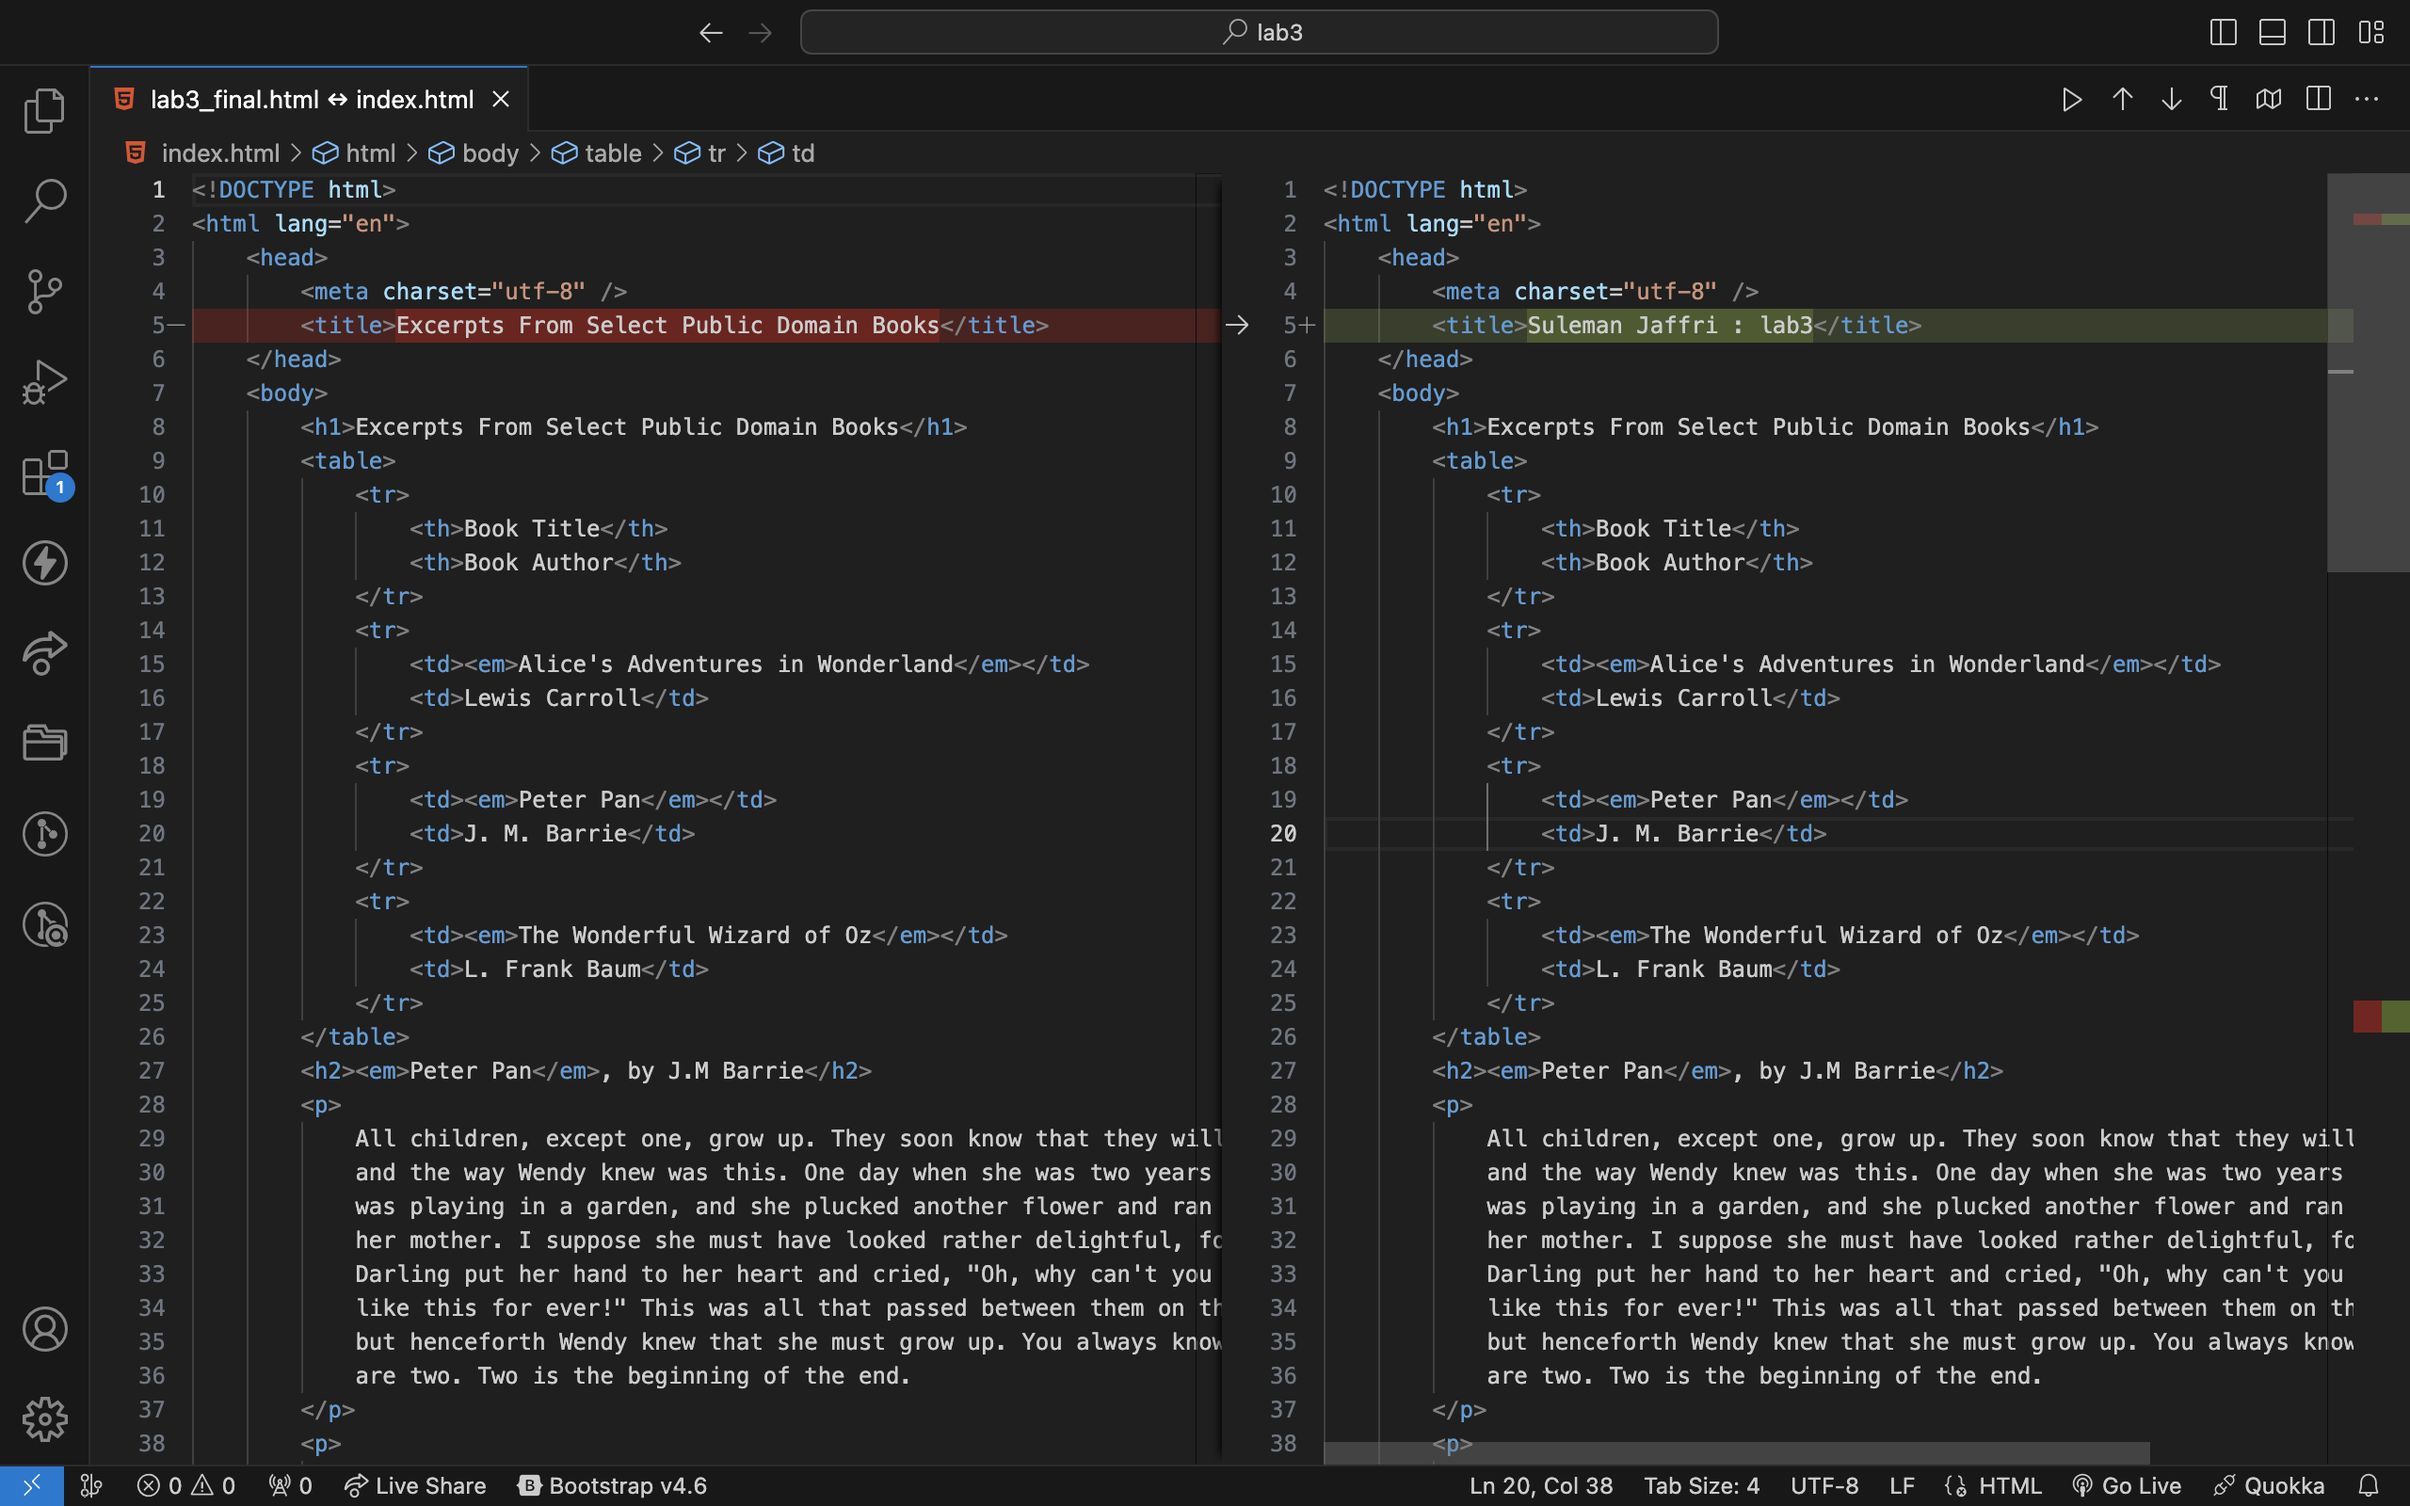
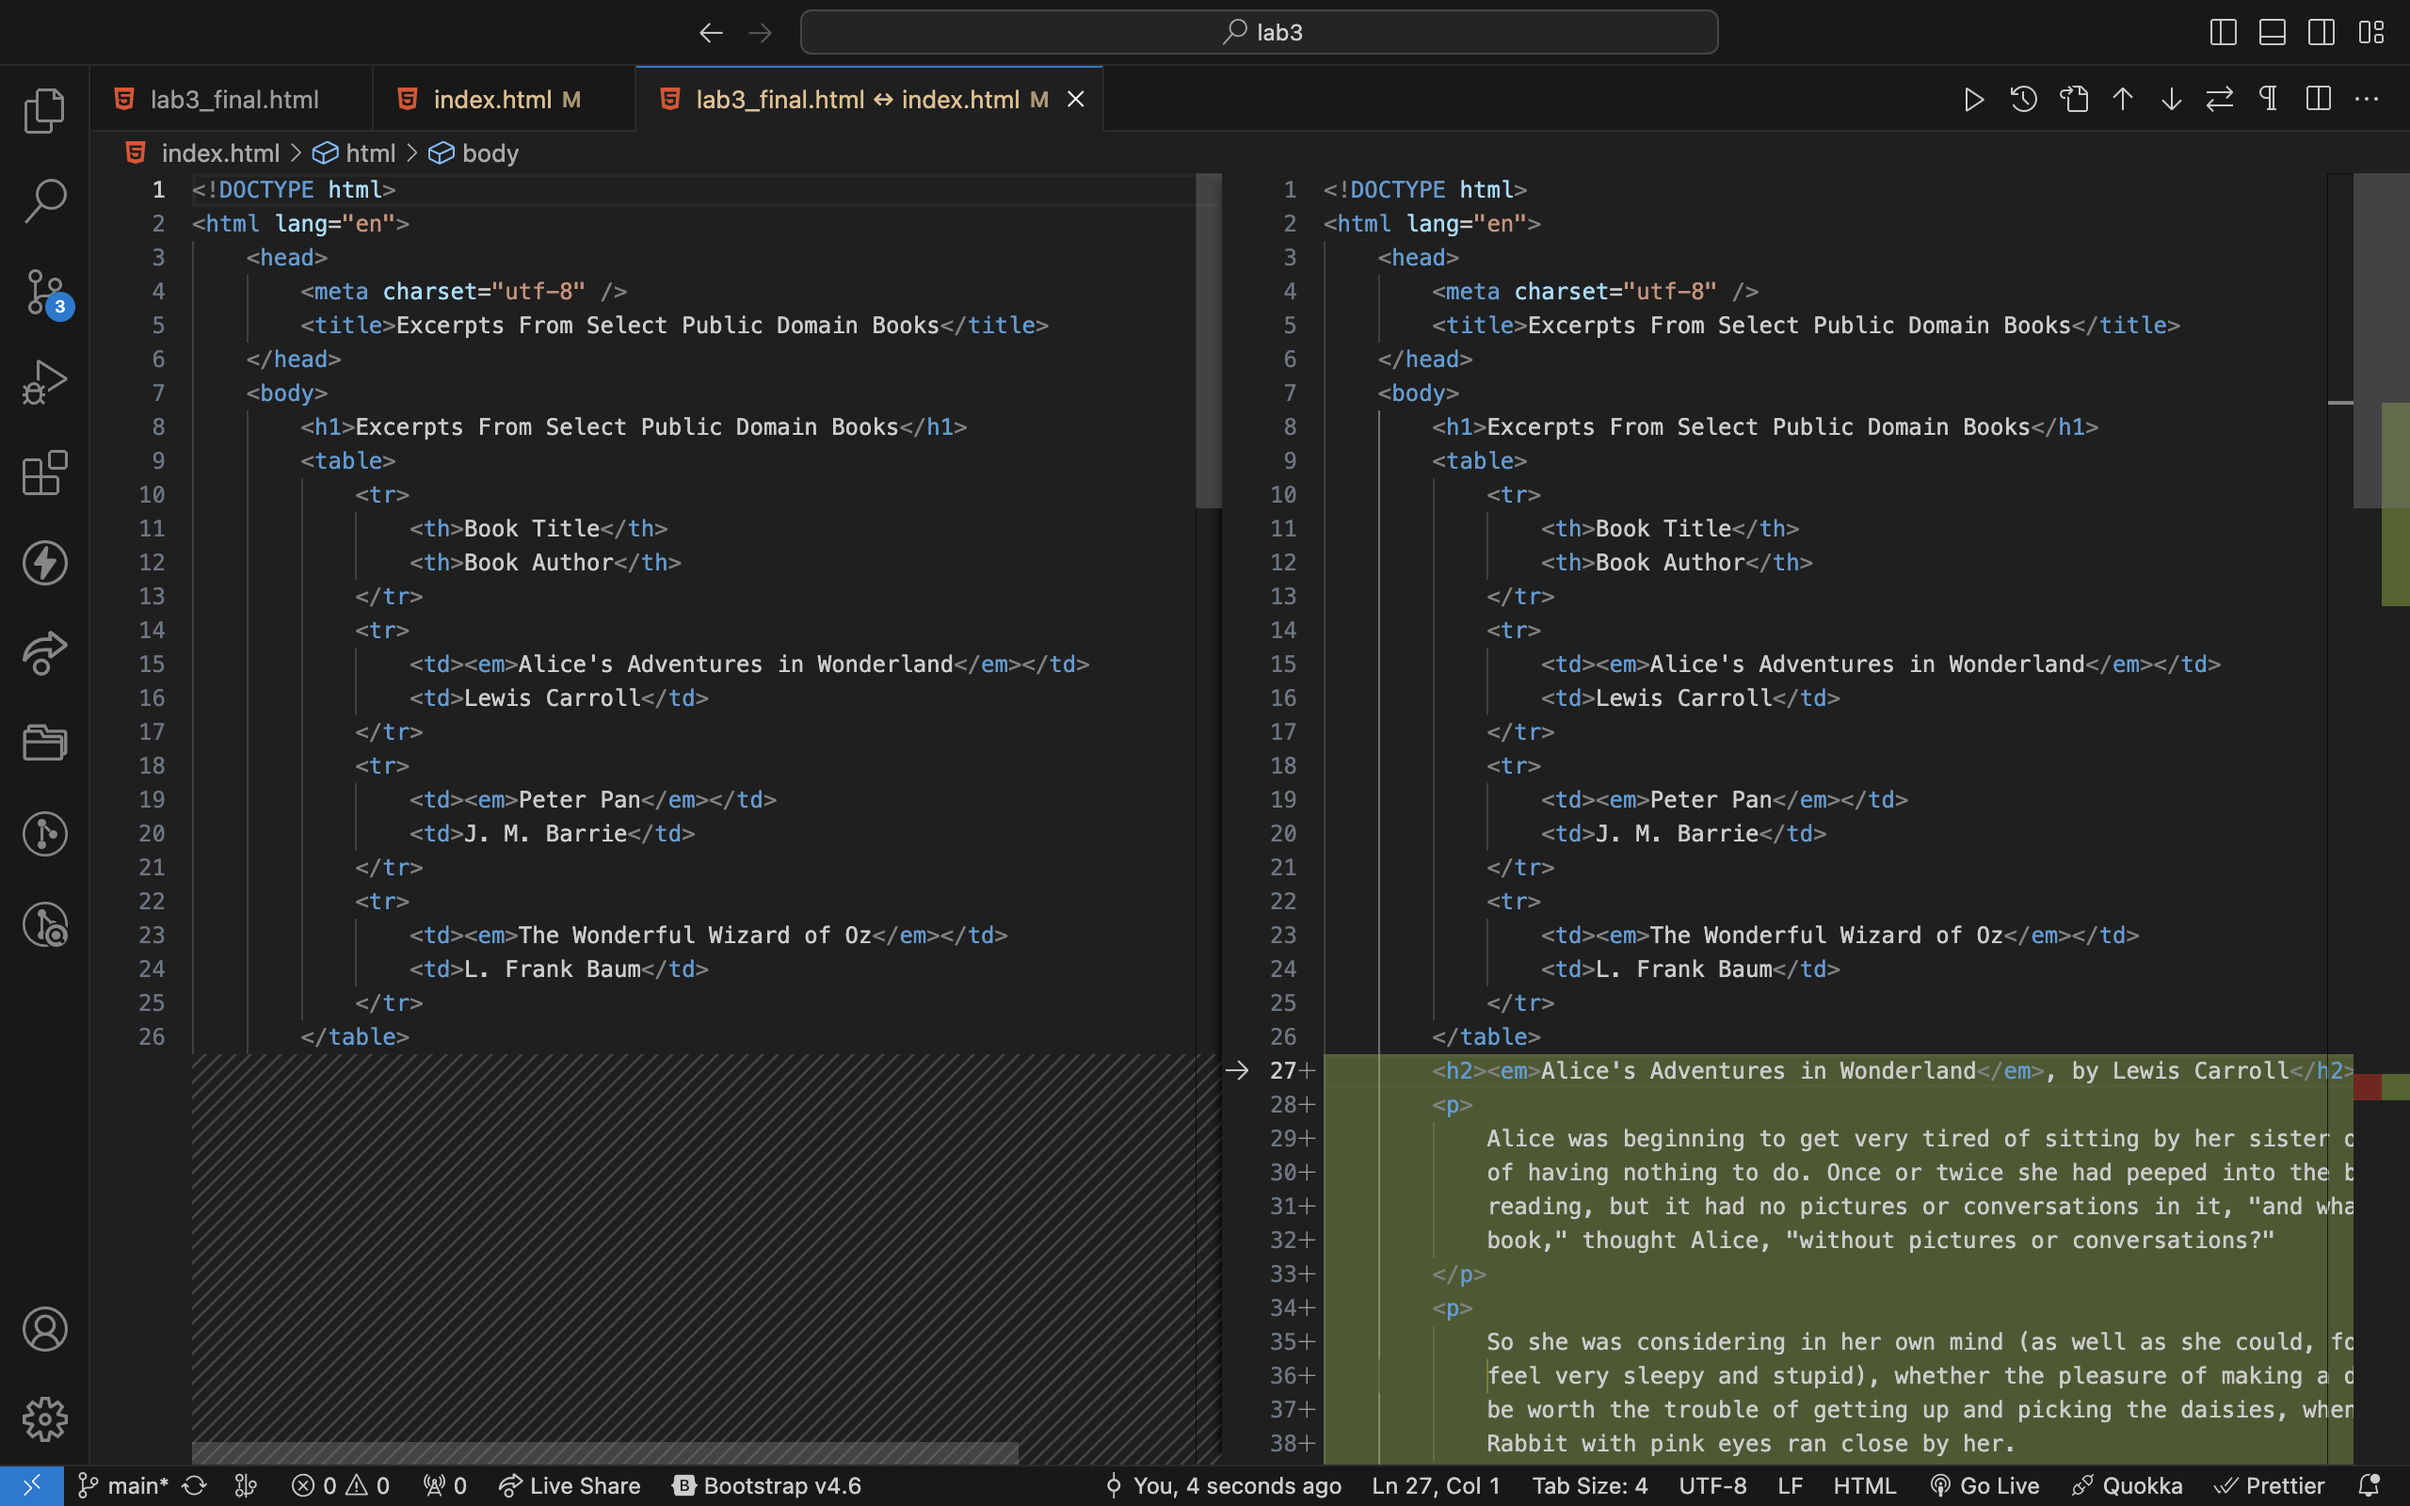
updated on teacher remarks

diff --git a/index.html b/index.html
@@ -1,8 +1,8 @@
 <!DOCTYPE html>
 <html lang="en">
 	<head>
-		<meta charset="utf-8" >
-		<title>Suleman Jaffri : lab3</title>
+		<meta charset="utf-8" />
+		<title>Excerpts From Select Public Domain Books</title>
 	</head>
 	<body>
 		<h1>Excerpts From Select Public Domain Books</h1>
@@ -24,6 +24,29 @@
 				<td>L. Frank Baum</td>
 			</tr>
 		</table>
+		<h2><em>Alice's Adventures in Wonderland</em>, by Lewis Carroll</h2>
+		<p>
+			Alice was beginning to get very tired of sitting by her sister on the bank, and 
+			of having nothing to do. Once or twice she had peeped into the book her sister was 
+			reading, but it had no pictures or conversations in it, "and what is the use of a 
+			book," thought Alice, "without pictures or conversations?"
+		</p>
+		<p>
+			So she was considering in her own mind (as well as she could, for the day made her 
+			feel very sleepy and stupid), whether the pleasure of making a daisy-chain would 
+			be worth the trouble of getting up and picking the daisies, when suddenly a White 
+			Rabbit with pink eyes ran close by her.
+		</p>
+		<p>
+			There was nothing so very remarkable in that, nor did Alice think it so very much 
+			out of the way to hear the Rabbit say to itself, "Oh dear! Oh dear! I shall be too 
+			late!" But when the Rabbit actually took a watch out of its waistcoat-pocket and 
+			looked at it and then hurried on, Alice started to her feet, for it flashed across 
+			her mind that she had never before seen a rabbit with either a waistcoat-pocket, 
+			or a watch to take out of it, and, burning with curiosity, she ran across the 
+			field after it and was just in time to see it pop down a large rabbit-hole, under 
+			the hedge. In another moment, down went Alice after it!
+		</p>
 		<h2><em>Peter Pan</em>, by J.M Barrie</h2>
 		<p>
 			All children, except one, grow up. They soon know that they will grow up,
@@ -77,9 +100,9 @@
 			>
 		</p>
 		<ul>
-			<li><strong>Suleman Jaffri</strong></li>
-			<li>ITMD-361</li>
-			<li>lab #3</li>
+			<li><strong>Suleman Jaffr</strong></li>
+			<li><strong>ITMD-361</strong></li>
+			<li><strong>Lab #3</strong></li>
 		</ul>
 	</body>
 </html>
